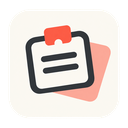
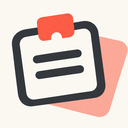
feat: send each item's card color so every device shows the same one
The copying device knows its app's icon color; the others guessed. The
color now travels in the sealed meta (`color`, optional, `#rrggbb`), the
desktop uses it for items whose app is not installed locally, and the
phone prefers it over its name-derived palette. Desktop 1.0.1 ships it;
the phone's 1.0.1 also tightens the app icon artwork, which was padded
twice, and gains a `color` column with a migration for 1.0.0 databases.

Claude-Session: https://claude.ai/code/session_01828c5HXvcUK5PVzLNes66J

diff --git a/mobile/src/store/db.ts b/mobile/src/store/db.ts
@@ -16,6 +16,8 @@ export interface Item {
   files: FileMeta[] | null;
   from: string;
   app: string | null;
+  /// `#rrggbb` chosen by the copying device, when it sent one.
+  color: string | null;
   copied_at: number;
   updated_at: number;
   blob_size: number | null;
@@ -33,6 +35,7 @@ interface Row {
   files: string | null;
   from_device: string;
   app: string | null;
+  color: string | null;
   copied_at: number;
   updated_at: number;
   blob_size: number | null;
@@ -52,6 +55,7 @@ CREATE TABLE IF NOT EXISTS items (
   files TEXT,
   from_device TEXT NOT NULL,
   app TEXT,
+  color TEXT,
   copied_at INTEGER NOT NULL,
   updated_at INTEGER NOT NULL,
   blob_size INTEGER,
@@ -69,17 +73,20 @@ export class Db {
   static async open(name = "pinchy.db"): Promise<Db> {
     const db = await SQLite.openDatabaseAsync(name);
     await db.execAsync(SCHEMA);
+    // 1.0.0 made the table without `color`.
+    const columns = await db.getAllAsync<{ name: string }>("PRAGMA table_info(items)");
+    if (!columns.some((c) => c.name === "color")) await db.execAsync("ALTER TABLE items ADD COLUMN color TEXT");
     return new Db(db);
   }
 
   async upsert(item: Omit<Item, "blob_state" | "width" | "height"> & Partial<Pick<Item, "blob_state" | "width" | "height">>): Promise<void> {
     // A blob already on disk survives a re-copy: blobs never change.
     await this.db.runAsync(
-      `INSERT INTO items (id, seq, origin, kind, text, files, from_device, app, copied_at, updated_at, blob_size, blob_state, width, height)
-       VALUES (?, ?, ?, ?, ?, ?, ?, ?, ?, ?, ?, ?, ?, ?)
+      `INSERT INTO items (id, seq, origin, kind, text, files, from_device, app, color, copied_at, updated_at, blob_size, blob_state, width, height)
+       VALUES (?, ?, ?, ?, ?, ?, ?, ?, ?, ?, ?, ?, ?, ?, ?)
        ON CONFLICT(id) DO UPDATE SET
          seq = excluded.seq, origin = excluded.origin, kind = excluded.kind, text = excluded.text,
-         files = excluded.files, from_device = excluded.from_device, app = excluded.app,
+         files = excluded.files, from_device = excluded.from_device, app = excluded.app, color = excluded.color,
          copied_at = excluded.copied_at, updated_at = excluded.updated_at, blob_size = excluded.blob_size,
          blob_state = CASE WHEN items.blob_state = 'ready' THEN 'ready' ELSE excluded.blob_state END,
          width = COALESCE(items.width, excluded.width), height = COALESCE(items.height, excluded.height)`,
@@ -91,6 +98,7 @@ export class Db {
       item.files ? JSON.stringify(item.files) : null,
       item.from,
       item.app,
+      item.color,
       item.copied_at,
       item.updated_at,
       item.blob_size,
@@ -181,6 +189,7 @@ function fromRow(row: Row): Item {
     files,
     from: row.from_device,
     app: row.app,
+    color: row.color ?? null,
     copied_at: row.copied_at,
     updated_at: row.updated_at,
     blob_size: row.blob_size,

diff --git a/mobile/src/protocol/meta.ts b/mobile/src/protocol/meta.ts
@@ -20,6 +20,8 @@ export interface Meta {
   app?: string;
   /// When it was last copied, ms since the epoch.
   copied_at?: number;
+  /// The app's card color (`#rrggbb`) as the copying device shows it.
+  color?: string;
 }
 
 export const META_VERSION = 2;
@@ -34,6 +36,7 @@ export function encodeMeta(meta: Meta): Uint8Array {
   if (meta.from !== undefined) clean.from = meta.from;
   if (meta.app !== undefined) clean.app = meta.app;
   if (meta.copied_at !== undefined) clean.copied_at = meta.copied_at;
+  if (meta.color !== undefined) clean.color = meta.color;
   return encoder.encode(JSON.stringify(clean));
 }
 
@@ -63,8 +66,11 @@ export function decodeMeta(bytes: Uint8Array): Meta | null {
   if (typeof r.from === "string") meta.from = r.from;
   if (typeof r.app === "string") meta.app = r.app;
   if (typeof r.copied_at === "number") meta.copied_at = r.copied_at;
+  if (typeof r.color === "string" && HEX_COLOR.test(r.color.trim())) meta.color = r.color.trim().toLowerCase();
   return meta;
 }
+
+const HEX_COLOR = /^#[0-9a-fA-F]{6}$/;
 
 /// Splits a files blob back into its parts. Null when the sizes do not add
 /// up to the blob.

diff --git a/mobile/test/meta.test.ts b/mobile/test/meta.test.ts
@@ -5,8 +5,10 @@ import { parseJoinLink } from "../src/protocol/join";
 import { normalizeServer } from "../src/protocol/relay";
 
 test("meta round-trips and drops unknown or malformed fields", () => {
-  const meta = { v: 2, kind: "text", text: "hi", from: "집 맥", copied_at: 5 };
+  const meta = { v: 2, kind: "text", text: "hi", from: "집 맥", copied_at: 5, color: "#3b5bdb" };
   assert.deepEqual(decodeMeta(encodeMeta(meta)), meta);
+  assert.equal(decodeMeta(new TextEncoder().encode('{"v":2,"kind":"text","text":"x","color":"red"}'))?.color, undefined, "only #rrggbb");
+  assert.equal(decodeMeta(new TextEncoder().encode('{"v":2,"kind":"text","text":"x","color":" #ABCDEF "}'))?.color, "#abcdef");
   const json = new TextDecoder().decode(encodeMeta({ v: 2, kind: "image", app: undefined }));
   assert.equal(json, '{"v":2,"kind":"image"}', "undefined fields are omitted like serde's skip_serializing_if");
   assert.equal(decodeMeta(new TextEncoder().encode("nope")), null);

diff --git a/mobile/src/ui/ItemCard.tsx b/mobile/src/ui/ItemCard.tsx
@@ -17,7 +17,7 @@ export function ItemCard({ item, onPress, onLongPress, full = false }: { item: I
   useEffect(() => {
     if (needsBlob && engine) void engine.ensureBlob(item.id);
   }, [needsBlob, engine, item.id]);
-  const color = appColor(item.app);
+  const color = item.color ?? appColor(item.app);
   return (
     <Pressable
       onPress={onPress}

diff --git a/mobile/test/key.test.ts b/mobile/test/key.test.ts
@@ -31,6 +31,7 @@ test("opens envelopes, blobs and labels sealed by the desktop", () => {
   const parsed = decodeMeta(meta);
   assert.equal(parsed?.kind, "files");
   assert.equal(parsed?.from, "집 맥");
+  assert.equal(parsed?.color, "#3b5bdb");
   assert.deepEqual(parsed?.files, [
     { name: "a.txt", size: 3 },
     { name: "b.bin", size: 4 },

diff --git a/mobile/src/sync.ts b/mobile/src/sync.ts
@@ -179,6 +179,7 @@ export class SyncEngine {
       files: meta.files ?? null,
       from: meta.from?.trim() || "알 수 없는 기기",
       app: meta.app ?? null,
+      color: meta.color ?? null,
       copied_at: meta.copied_at ?? change.updated_at,
       updated_at: change.updated_at,
       blob_size: change.blob_size ?? null,

diff --git a/mobile/src/upload.ts b/mobile/src/upload.ts
@@ -76,6 +76,7 @@ export async function upload(engine: SyncEngine, deviceName: string, draft: Draf
     files: files ?? null,
     from: deviceName,
     app: draft.app ?? null,
+    color: null,
     copied_at: now,
     updated_at: now,
     blob_size: blob?.length ?? null,

diff --git a/src-tauri/src/share.rs b/src-tauri/src/share.rs
@@ -314,6 +314,10 @@ struct Meta {
     /// When it was last copied, ms since the epoch.
     #[serde(default, skip_serializing_if = "Option::is_none")]
     copied_at: Option<i64>,
+    /// The app's card color (`#rrggbb`), taken from its icon on the device
+    /// that copied it, so every device shows the same color.
+    #[serde(default, skip_serializing_if = "Option::is_none")]
+    color: Option<String>,
 }
 
 #[derive(Debug, Clone, Serialize, Deserialize, PartialEq)]
@@ -434,6 +438,13 @@ fn split_extension(name: &str) -> (&str, &str) {
 }
 
 /// Trims a device name and caps its length; empty means none.
+/// Accepts only `#rrggbb`, the form the icon cache produces.
+fn clean_color(color: &str) -> Option<String> {
+    let color = color.trim();
+    let hex = color.strip_prefix('#')?;
+    (hex.len() == 6 && hex.chars().all(|c| c.is_ascii_hexdigit())).then(|| color.to_ascii_lowercase())
+}
+
 fn clean_name(name: &str) -> Option<String> {
     let name: String = name.trim().chars().take(MAX_NAME_CHARS).collect();
     let name = name.trim().to_string();
@@ -906,6 +917,7 @@ impl Relay {
             from,
             app: item.source_app.clone(),
             copied_at: Some(item.created_at),
+            color: item.app_color.as_deref().and_then(clean_color),
         };
         let (meta, blob) = match item.kind.as_str() {
             "text" | "link" => (Meta { text: Some(item.content.clone()), ..base }, None),
@@ -999,7 +1011,7 @@ impl Relay {
             }
             (kind, _, _) => return Err(ReceiveError::Invalid(format!("unsupported item kind {kind:?}"))),
         };
-        Ok(Opened { from, app, copied_at, content })
+        Ok(Opened { from, app, copied_at, color: meta.color.as_deref().and_then(clean_color), content })
     }
 
     fn blob(&self, id: &str) -> Result<Vec<u8>, ReceiveError> {
@@ -1030,13 +1042,16 @@ struct Opened {
     from: String,
     app: Option<String>,
     copied_at: i64,
+    /// The card color the copying device chose, when it sent one.
+    color: Option<String>,
     content: Content,
 }
 
 impl Opened {
     /// Builds the local row. Items first copied on this device keep their
     /// own look; others show the app they came from when it is installed
-    /// here too, else the device they came from.
+    /// here too, else the color the copying device sent, else the device
+    /// they came from.
     fn into_item(self, dirs: &Dirs, icons: &mut AppIconCache, own_name: Option<&str>) -> Option<NewItem> {
         let mut item = match self.content {
             Content::Text(text) => clipboard::text_item(text),
@@ -1050,7 +1065,7 @@ impl Opened {
                 item.app_icon = look.icon;
                 item.app_color = look.color;
             }
-            None => item.app_color = Some(RECEIVED_COLOR.into()),
+            None => item.app_color = Some(self.color.unwrap_or_else(|| RECEIVED_COLOR.into())),
         }
         if own_name != Some(self.from.as_str()) {
             item.origin_device = Some(self.from);
@@ -1652,6 +1667,7 @@ mod tests {
             from: Some("집 맥".into()),
             app: Some("Finder".into()),
             copied_at: Some(1_761_400_000_000),
+            color: Some("#3b5bdb".into()),
         };
         let meta_json = serde_json::to_string(&meta).unwrap();
         let blob = b"abc\x00\x01\x02\xff".to_vec();
@@ -1742,13 +1758,14 @@ mod tests {
         let text = Meta {
             v: 2, kind: "text".into(), text: Some("안녕".into()), files: None,
             from: Some("집 맥".into()), app: Some("Notes".into()), copied_at: Some(1_700_000_000_000),
+            color: Some("#1f8fff".into()),
         };
-        let image = Meta { v: 2, kind: "image".into(), text: None, files: None, from: None, app: None, copied_at: None };
+        let image = Meta { v: 2, kind: "image".into(), text: None, files: None, from: None, app: None, copied_at: None, color: None };
         assert_eq!(serde_json::to_string(&image).unwrap(), r#"{"v":2,"kind":"image"}"#);
         let restored: Meta = serde_json::from_str(&serde_json::to_string(&text).unwrap()).unwrap();
         assert_eq!(restored, text);
         let files = Meta {
-            v: 2, kind: "files".into(), text: None, from: None, app: None, copied_at: None,
+            v: 2, kind: "files".into(), text: None, from: None, app: None, copied_at: None, color: None,
             files: Some(vec![FileMeta { name: "보고서.pdf".into(), size: 3 }]),
         };
         let restored: Meta = serde_json::from_str(&serde_json::to_string(&files).unwrap()).unwrap();
